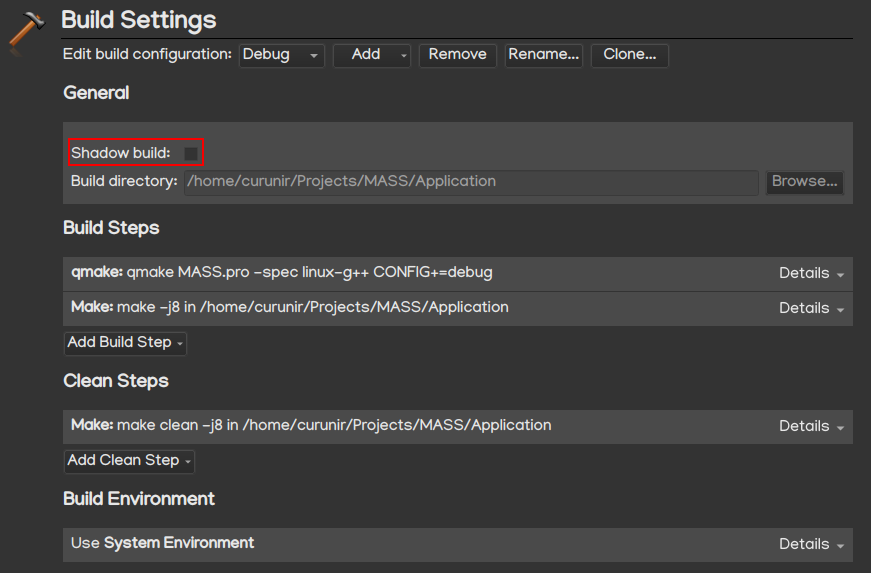
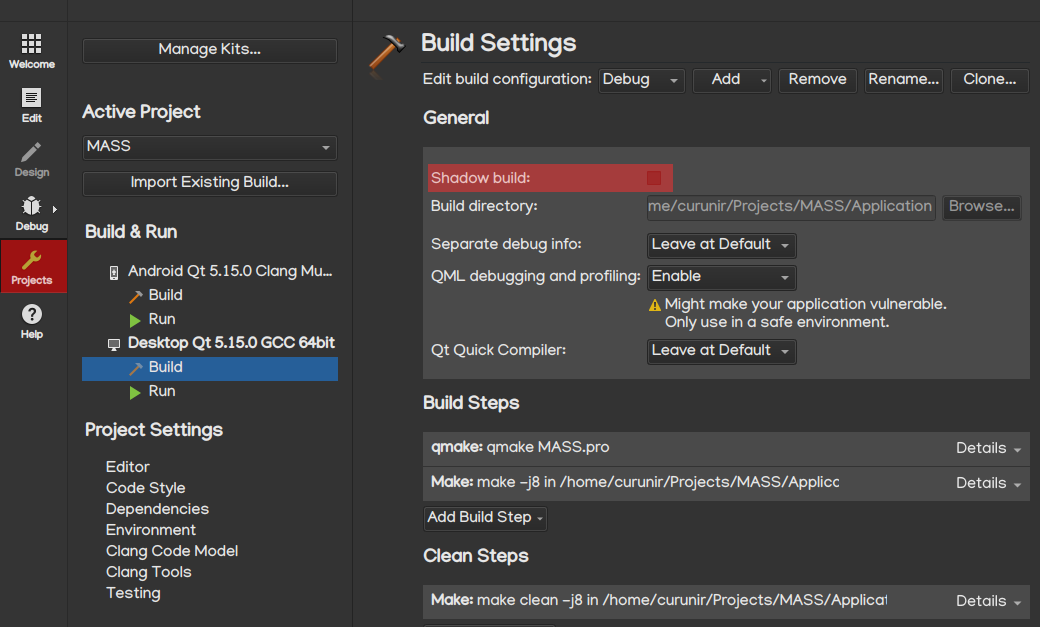
Update documentation

diff --git a/Resources/QtCreatorWizard/Plugin/plugin.h b/Resources/QtCreatorWizard/Plugin/plugin.h
@@ -15,7 +15,6 @@ class Form;
 
 @endif
 @if %{CreateNewInterface}
-#include "%{IPath}"
 #include "%{HdrFileName}"
 
 @endif

diff --git a/README.md b/README.md
@@ -1,6 +1,6 @@
 [[_TOC_]]
 
-## About
+# About
 
 It is repository with interfaces and base classes for plugins to MASS application: https://gitlab.com/c4rb0n_un1t/MASS
 
@@ -18,16 +18,18 @@ git clone https://gitlab.com/c4rb0n_un1t/mass-common-plugins
 git clone https://gitlab.com/c4rb0n_un1t/mass-pim-plugins
 ```
 
-## Running application
-Open `MASS/Application/MASS.pro` project. On opening of “MASS.pro” toggle off “Shadow build” setting.
+# Running application
+Open `MASS/Application/MASS.pro` project. After opening of “MASS.pro” toggle off “Shadow build” setting in.
 
 ![ShadowBuild](/Resources/Images/ShadowBuild.png)
 
-Run building of plugins project, you’ll see that plugin libraries will appear inside `MASS/Application/Plugins` directory.
+Open `MASS/MASS-Plugins/plugins.pro` project. This project automatically loads up all plugin projects from `MASS/MASS-Plugins/Projects/`. Disable "Shadow build" for this project too.
 
-Run application - all plugins stored in `MASS/Application/Plugins` will be loaded.
+Build `plugins.pro` project, you’ll see that plugin libraries will appear inside `MASS/Application/Plugins` directory.
 
-## How to create plugin
+Run `MASS.pro` - all plugins stored in `MASS/Application/Plugins` will be loaded.
+
+# Creating plugin
 Create symlink of QtCreator wizard directory `MASS/MASS-Plugins/Resources/QtCreatorWizard/Plugin` inside of `[your Qt installation directory]/share/qtcreator/templates/wizards` directory.
 
 On Linux you can do it by calling `MASS/MASS-Plugins/Resources/QtCreatorWizard/create_symlink.sh`.
@@ -55,7 +57,45 @@ In result you’ll have these files:
 * howto.h - interface implementation header (if you’ve chosen “Create new interface for plugin”)
 * howto.cpp - interface implementation source (if you’ve chosen “Create new interface for plugin”)
 
-### Plugin header
+## Plugin interface
+`MASS/MASS-Plugins/Interfaces/Utility/ihowto.h`
+```cpp
+#pragma once
+
+#include <QtCore>
+
+class IHowTo
+{
+public:
+};
+Q_DECLARE_INTERFACE(IHowTo, "IHowTo/1.0")
+```
+This is interface of your plugin (if you’ve chosen “Create new interface for plugin”). Other plugins will interact with your plugin only via interfaces that you define. You specify all interfaces of your plugin in plugin meta data.
+
+## Plugin meta data
+`MASS/MASS-Plugins/Interfaces/Utility/PluginMeta.json`
+```js
+{
+	"iplugin": {
+		"interfaces": [
+			"IPlugin/1.0", "IHowTo/1.0"
+		],
+		"references": {
+		},
+		"info": {
+			"name": "HowTo",
+			"about": "Plugin example for tutorial"
+		}
+	}
+}
+```
+Plugin meta data is JSON file that describes your plugin. This file is readable without actually creating plugin instance and it is required for plugins linkage. It has these fields:
+* interfaces – list of interfaces that your plugin provides. Number after “/” stands for version of interface;
+* references – map of references (we’ll get to this);
+* info – human readable info about plugin.
+
+## Plugin header
+`MASS/MASS-Plugins/Projects/HowTo/plugin.h`
 ```cpp
 #pragma once
 
@@ -79,16 +119,15 @@ public:
 private:
 	HowTo* m_impl;
 };
-
 ```
 You can see 3 included paths:
 * plugin_base.h – file that provides PluginBase class from which your Plugin is inherited. It’s purpose is to provide management of references to other plugins (we’ll get to this);
-* ihowto.h – file with interface that you’ve created for your plugin. All plugins interact through interfaces, so other plugin will interact with you through yours;
-* howto.h – implementation of class that inherits from your plugin interface. You may ask why Plugin class doesn’t inherited from this interface – it’s made that way because of 2 reasons:
+* howto.h – implementation of class that inherits from your plugin interface. You may ask why Plugin class doesn’t inherited from this interface directly – it’s made that way because of 2 reasons:
     *  if your Plugin class will be inherited from 2 interfaces that have same method name and signature, you’ll have no way to implement them separately inside Plugin class;
     *  Qt prohibits multiple inheritance of QObject-based classes: https://doc.qt.io/archives/qq/qq15-academic.html
 
-### Plugin source
+## Plugin source
+`MASS/MASS-Plugins/Projects/HowTo/plugin.cpp`
 ```cpp
 #include "plugin.h"
 
@@ -116,41 +155,52 @@ Most important thing here is initPluginBase() method. It initializes all runtime
 * second parameter – QMap with plugin references, where key is Interface instance and value is ReferenceInstancePtr (it’s used to handle references to other plugins);
 * third parameter – QMap with lists of plugin references, where key is Interface instance and value is ReferenceInstancesListPtr that holds list of ReferenceInstancePtr (it used if your plugin requires more than one reference of specific interface).
 
-### Plugin meta data
-```js
+## Interface implementation
+`MASS/MASS-Plugins/Projects/HowTo/howto.cpp`
+```cpp
+#pragma once
+
+#include <QtCore>
+
+#include "../../Interfaces/ihowto.h"
+
+class HowTo : public QObject, public IHowTo
 {
-	"iplugin": {
-		"interfaces": [
-			"IPlugin/1.0"
-			, "IHowTo/1.0"
-		],
-		"references": {
-		},
-		"info": {
-			"name": "HowTo",		
-			"about": "Plugin example for tutorial"
-		}
-	}
+	Q_OBJECT
+	Q_INTERFACES(IHowTo)
+
+public:
+	HowTo(QObject* parent);
+	virtual ~HowTo() override;
+};
+```
+`MASS/MASS-Plugins/Projects/HowTo/howto.cpp`
+```cpp
+#include "howto.h"
+
+HowTo::HowTo(QObject* parent) :
+	QObject(parent)
+{
+}
+
+HowTo::~HowTo()
+{
 }
 ```
-Plugin meta data is JSON file that describes your plugin. Someone could opened without instantiating your plugin to decide that they need it or not. It has these fields:
-* interfaces – list of interfaces that your plugin provides. Number after “/” stands for version of interface;
-* references – map of references (we’ll get to this);
-* info – human readable info about plugin.
+These file contains implementation of interface defined in `MASS/MASS-Plugins/Interfaces/Utility/ihowto.h`. It's pretty much straightforward - here you implement plugin interface. You could have multiple inteface implementation files per plugin - depends on how much interfaces your plugin provides.
 
-
-## Adding plugin reference
+# Adding references to another plugins
 Now, when we’ve covered basics, we can check how to add reference to our plugin.
 
-First you need to pick interface of reference that you want to use. For now it’s manual process – you need to search for it inside `MASS/MASS-Plugins/Projects/Interfaces` directory, but later on we’ll add tool for searching interfaces and plugins based on your requirements.
+First you need to pick interface of reference that you want to use. Depending on your needs, find an interface inside `MASS/MASS-Plugins/Projects/Interfaces` directory.
 
 Let’s assume that you’ve picked IPluginLinker interface – it can provide you with list of plugins that currently loaded in the app.
 
-IPluginInterface file is here: `MASS/MASS-Plugins/Projects/Interfaces/Middleware/ipluginlinker.h`. Here is how it looks like:
+IPluginInterface file is here: `MASS/MASS-Plugins/Projects/Interfaces/Middleware/ipluginlinker.h`.S
 
-To add reference of this interface you need make changes in header, source and meta data of your plugin.
+To add reference of this interface you need make changes in header, source and meta data of your plugin, let's cover them all.
 
-### Plugin header changes
+## Plugin header changes
 ```cpp
 #pragma once
 
@@ -184,7 +234,7 @@ protected:
 ```
 Include interface file in your plugin header and add attribute of ReferenceInterfacePtr to your Plugin class.
 
-Because references are always set dynamically to plugin, you can’t just use them straightaway. Instead you need special state, when you’ll be able to use them. All states that plugin is passed represented by following methods of PluginBase that you can override:
+Because references are always set dynamically to plugin, you can’t just use them straight away. Instead you need special state, when you’ll be able to use them. All states that plugin is passed represented by following methods of PluginBase that you can override:
 * onInited – called when your plugin will be instantiated and assigned to id that uniquely identifies it among all other plugins;
 * onReferencesSet – called when all references for your plugin is set, but none of them is not ready;
 * onReady – called when your references are ready and you can start to call them;
@@ -192,7 +242,7 @@ Because references are always set dynamically to plugin, you can’t just use th
 
 For purpose of this tutorial we’ll use only onReady method, so we’ll call some method of our reference.
 
-### Plugin source changes
+## Plugin source changes
 ```cpp
 #include "plugin.h"
 
@@ -226,7 +276,7 @@ Add ReferenceInterfacePtr instance into initPluginBase.
 
 Inside overridden onPluginReady method we will output total count of plugins that inherits IPlugin interface (common interface for all plugins).
 
-### Meta data changes
+## Meta data changes
 ```js
 {
 	"iplugin": {
@@ -249,16 +299,20 @@ Add reference interface to “references” map.
 Key must be interface with version, that you can pick from interface file in Q_DECLARE_INTERFACE macro (check at the bottom of the `MASS/MASS-Plugins/Projects/Interfaces/Middleware/ipluginlinker.h` file).
 
 Value is number that represents how many references of this interface your plugin require, it could be:
-* 0 – means that references value isn’t specified and that any amount (from zero to 2147483647) of references could be added to your plugin (use ReferenceInstancesListPtr for it);
+
+* 0 – means that references value isn’t specified and that any amount of references could be added to your plugin (use ReferenceInstancesListPtr for it);
 * 1 – means that your plugin requires only one reference of this interface (use ReferenceInterfacePtr for it);
-* from 2 to 2147483647 – means that your plugin requires specific amount of references that you’ve set (use ReferenceInstancesListPtr for it).
+* 1 < – means that your plugin requires specific amount of references that you’ve set (use ReferenceInstancesListPtr for it).
 
-## Running app with your plugin
+# Running app with your plugin
 
-Open “MASS/MASS-Plugins/plugins.pro” project, you’ll see that your plugin is among other plugins.
+Open `MASS/MASS-Plugins/plugins.pro` project, you’ll see that your plugin is among other plugins.
+If it's not there, you need to reopen this plugins project or restart QtCreator. If it doesn’t help check that your plugin project is inside `MASS/MASS-Plugins/Projects`.
 
 ![PluginProject](/Resources/Images/PluginProject.png)
 
 Run MASS application, you’ll see your plugin output.
 
 ![PluginOutput](/Resources/Images/PluginOutput.png)
+
+### Plugin interface changes
